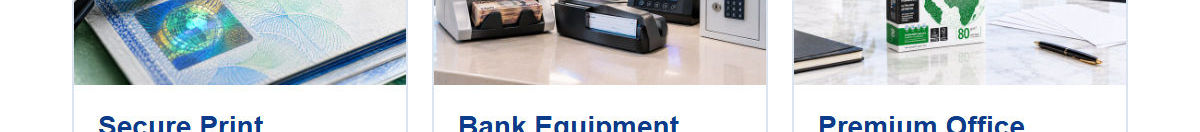
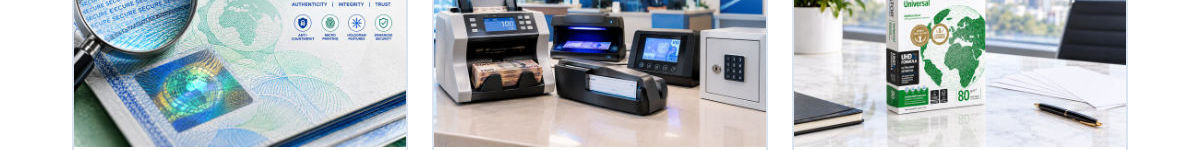
Update email images and copy page
Claude-Session: https://claude.ai/code/session_0174GiyDS398Tino45yyzD7n

diff --git a/index.html b/index.html
@@ -36,7 +36,7 @@
 <div class="wrap"><div id="email">
 <table role="presentation" width="600" align="center" cellpadding="0" cellspacing="0" border="0" bgcolor="#ffffff" style="width:600px; background:#ffffff; border-collapse:collapse;">
       <!-- HEADER (image, 1200x240 shown at 600x120, in strips) -->
-      <tr><td width="600" bgcolor="#0d3b8c" style="width:600px; line-height:0; font-size:0; background:#0d3b8c;"><table role="presentation" width="600" cellpadding="0" cellspacing="0" border="0" style="width:600px; border-collapse:collapse;"><tr><td width="600" style="line-height:0; font-size:0;"><img src="https://hophine.github.io/truvision-email-assets/header-1.jpg" width="600" height="60" alt="Truvision Co. Tanzania Ltd &ndash; A reality that ensures your safety" style="display:block; border:0;"></td></tr><tr><td width="600" style="line-height:0; font-size:0;"><img src="https://hophine.github.io/truvision-email-assets/header-2.jpg" width="600" height="60" alt="" style="display:block; border:0;"></td></tr></table></td></tr>
+      <tr><td width="600" bgcolor="#0d3b8c" style="width:600px; line-height:0; font-size:0; background:#0d3b8c;"><table role="presentation" width="600" cellpadding="0" cellspacing="0" border="0" style="width:600px; border-collapse:collapse;"><tr><td width="600" bgcolor="#093c97" style="line-height:0; font-size:0; background:#093c97;"><img src="https://hophine.github.io/truvision-email-assets/header-1.jpg" width="600" height="47" alt="Truvision Co. Tanzania Ltd &ndash; A reality that ensures your safety" style="display:block; border:0;"></td></tr><tr><td width="600" bgcolor="#0c276c" style="line-height:0; font-size:0; background:#0c276c;"><img src="https://hophine.github.io/truvision-email-assets/header-2.jpg" width="600" height="73" alt="" style="display:block; border:0;"></td></tr></table></td></tr>
       <!-- EDITABLE AREA START: greeting + intro (live text) -->
       <tr><td width="600" style="padding:22px 36px 8px 36px;font-family:Arial,Helvetica,sans-serif;color:#1f2a3d;font-size:15px;line-height:23px;">
       <p style="margin:0 0 14px 0;font-weight:bold;color:#0d3b8c;font-size:16px;">Dear Mr. / Ms. [Name],</p>
@@ -45,17 +45,21 @@
     </td></tr>
       <!-- EDITABLE AREA END -->
       <!-- SERVICE CARDS (image) -->
-      <tr><td width="600" style="width:600px; line-height:0; font-size:0;"><table role="presentation" width="600" cellpadding="0" cellspacing="0" border="0" style="width:600px; border-collapse:collapse;"><tr><td width="600" style="line-height:0; font-size:0;"><img src="https://hophine.github.io/truvision-email-assets/cards-1.jpg" width="600" height="65" alt="What We Do: Secure Print Solutions, Bank Equipment, Premium Office Paper &amp; Stationery" style="display:block; border:0;"></td></tr><tr><td width="600" style="line-height:0; font-size:0;"><img src="https://hophine.github.io/truvision-email-assets/cards-2.jpg" width="600" height="65" alt="" style="display:block; border:0;"></td></tr><tr><td width="600" style="line-height:0; font-size:0;"><img src="https://hophine.github.io/truvision-email-assets/cards-3.jpg" width="600" height="66" alt="" style="display:block; border:0;"></td></tr><tr><td width="600" style="line-height:0; font-size:0;"><img src="https://hophine.github.io/truvision-email-assets/cards-4.jpg" width="600" height="65" alt="" style="display:block; border:0;"></td></tr><tr><td width="600" style="line-height:0; font-size:0;"><img src="https://hophine.github.io/truvision-email-assets/cards-5.jpg" width="600" height="65" alt="" style="display:block; border:0;"></td></tr></table></td></tr>
+      <tr><td width="600" style="width:600px; line-height:0; font-size:0;"><table role="presentation" width="600" cellpadding="0" cellspacing="0" border="0" style="width:600px; border-collapse:collapse;"><tr><td width="600" bgcolor="#ffffff" style="line-height:0; font-size:0; background:#ffffff;"><img src="https://hophine.github.io/truvision-email-assets/cards-1.jpg" width="600" height="19" alt="What We Do: Secure Print Solutions, Bank Equipment, Premium Office Paper &amp; Stationery" style="display:block; border:0;"></td></tr><tr><td width="600" bgcolor="#ffffff" style="line-height:0; font-size:0; background:#ffffff;"><img src="https://hophine.github.io/truvision-email-assets/cards-2.jpg" width="600" height="80" alt="" style="display:block; border:0;"></td></tr><tr><td width="600" bgcolor="#ffffff" style="line-height:0; font-size:0; background:#ffffff;"><img src="https://hophine.github.io/truvision-email-assets/cards-3.jpg" width="600" height="75" alt="" style="display:block; border:0;"></td></tr><tr><td width="600" bgcolor="#ffffff" style="line-height:0; font-size:0; background:#ffffff;"><img src="https://hophine.github.io/truvision-email-assets/cards-4.jpg" width="600" height="72" alt="" style="display:block; border:0;"></td></tr><tr><td width="600" bgcolor="#ffffff" style="line-height:0; font-size:0; background:#ffffff;"><img src="https://hophine.github.io/truvision-email-assets/cards-5.jpg" width="600" height="80" alt="" style="display:block; border:0;"></td></tr></table></td></tr>
       <!-- BUTTONS (image) -->
-      <tr><td width="600" style="width:600px; line-height:0; font-size:0;"><table role="presentation" width="600" cellpadding="0" cellspacing="0" border="0" style="width:600px; border-collapse:collapse;"><tr><td width="35" style="width:35px; line-height:0; font-size:0; background:#ffffff;" bgcolor="#ffffff">&nbsp;</td><td width="260" style="width:260px; line-height:0; font-size:0;"><a href="https://drive.google.com/file/d/1planTHaDmI6MNUXV97K6tc_k8N3gfkBT/view" target="_blank"><img src="https://hophine.github.io/truvision-email-assets/btn-company-profile.png" width="260" height="58" alt="View Company Profile (PDF – 6 Pages)" style="display:block; border:0;"></a></td><td width="10" style="width:10px; line-height:0; font-size:0; background:#ffffff;" bgcolor="#ffffff">&nbsp;</td><td width="260" style="width:260px; line-height:0; font-size:0;"><a href="https://wa.me/255610157031" target="_blank"><img src="https://hophine.github.io/truvision-email-assets/btn-whatsapp.png" width="260" height="58" alt="Contact us on WhatsApp: +255 610 157 031" style="display:block; border:0;"></a></td><td width="35" style="width:35px; line-height:0; font-size:0; background:#ffffff;" bgcolor="#ffffff">&nbsp;</td></tr></table></td></tr>
+      <tr><td width="600" style="width:600px; line-height:0; font-size:0;"><table role="presentation" width="600" cellpadding="0" cellspacing="0" border="0" style="width:600px; border-collapse:collapse;"><tr><td width="35" height="58" bgcolor="#ffffff" style="width:35px; height:58px; line-height:0; font-size:0; background:#ffffff;">&nbsp;</td><td width="260" style="width:260px; line-height:0; font-size:0;"><a href="https://drive.google.com/file/d/1planTHaDmI6MNUXV97K6tc_k8N3gfkBT/view" target="_blank"><img src="https://hophine.github.io/truvision-email-assets/btn-company-profile.png" width="260" height="58" alt="View Company Profile (PDF – 6 Pages)" style="display:block; border:0;"></a></td><td width="10" height="58" bgcolor="#ffffff" style="width:10px; height:58px; line-height:0; font-size:0; background:#ffffff;">&nbsp;</td><td width="260" style="width:260px; line-height:0; font-size:0;"><a href="https://wa.me/255610157031" target="_blank"><img src="https://hophine.github.io/truvision-email-assets/btn-whatsapp.png" width="260" height="58" alt="Contact us on WhatsApp: +255 610 157 031" style="display:block; border:0;"></a></td><td width="35" height="58" bgcolor="#ffffff" style="width:35px; height:58px; line-height:0; font-size:0; background:#ffffff;">&nbsp;</td></tr></table></td></tr>
+      <!-- SPACE (image) -->
+      <tr><td width="600" height="20" bgcolor="#ffffff" style="width:600px; height:20px; line-height:0; font-size:0; background:#ffffff;">&nbsp;</td></tr>
+      <!-- NAVIGATOR WEBSITE BUTTON (image) -->
+      <tr><td width="600" style="width:600px; line-height:0; font-size:0;"><table role="presentation" width="600" cellpadding="0" cellspacing="0" border="0" style="width:600px; border-collapse:collapse;"><tr><td width="169" height="44" bgcolor="#ffffff" style="width:169px; height:44px; line-height:0; font-size:0; background:#ffffff;">&nbsp;</td><td width="262" style="width:262px; line-height:0; font-size:0;"><a href="https://navigator-paper.com/en/range/office/universal" target="_blank"><img src="https://hophine.github.io/truvision-email-assets/btn-navigator.png" width="262" height="44" alt="Navigator Website" style="display:block; border:0;"></a></td><td width="169" height="44" bgcolor="#ffffff" style="width:169px; height:44px; line-height:0; font-size:0; background:#ffffff;">&nbsp;</td></tr></table></td></tr>
       <!-- CLOSING (image) -->
-      <tr><td width="600" style="width:600px; line-height:0; font-size:0;"><table role="presentation" width="600" cellpadding="0" cellspacing="0" border="0" style="width:600px; border-collapse:collapse;"><tr><td width="600" style="line-height:0; font-size:0;"><img src="https://hophine.github.io/truvision-email-assets/closing-1.png" width="600" height="60" alt="We would be pleased to explore opportunities for cooperation with your organization. Best regards, TRUVISION CO. TANZANIA LTD" style="display:block; border:0;"></td></tr><tr><td width="600" style="line-height:0; font-size:0;"><img src="https://hophine.github.io/truvision-email-assets/closing-2.png" width="600" height="61" alt="" style="display:block; border:0;"></td></tr><tr><td width="600" style="line-height:0; font-size:0;"><img src="https://hophine.github.io/truvision-email-assets/closing-3.png" width="600" height="60" alt="" style="display:block; border:0;"></td></tr></table></td></tr>
+      <tr><td width="600" style="width:600px; line-height:0; font-size:0;"><table role="presentation" width="600" cellpadding="0" cellspacing="0" border="0" style="width:600px; border-collapse:collapse;"><tr><td width="600" bgcolor="#ffffff" style="line-height:0; font-size:0; background:#ffffff;"><img src="https://hophine.github.io/truvision-email-assets/closing-1.png" width="600" height="15" alt="Best regards, TRUVISION CO. TANZANIA LTD" style="display:block; border:0;"></td></tr><tr><td width="600" bgcolor="#ffffff" style="line-height:0; font-size:0; background:#ffffff;"><img src="https://hophine.github.io/truvision-email-assets/closing-2.png" width="600" height="80" alt="" style="display:block; border:0;"></td></tr><tr><td width="600" bgcolor="#ffffff" style="line-height:0; font-size:0; background:#ffffff;"><img src="https://hophine.github.io/truvision-email-assets/closing-3.png" width="600" height="80" alt="" style="display:block; border:0;"></td></tr></table></td></tr>
       <!-- CONTACT ROW (image) -->
-      <tr><td width="600" style="width:600px; line-height:0; font-size:0;"><table role="presentation" width="600" cellpadding="0" cellspacing="0" border="0" style="width:600px; border-collapse:collapse;"><tr><td width="36" style="width:36px; line-height:0; font-size:0; background:#ffffff;" bgcolor="#ffffff">&nbsp;</td><td width="116" style="width:116px; line-height:0; font-size:0;"><a href="tel:+255610157031"><img src="https://hophine.github.io/truvision-email-assets/contact-phone.png" width="116" height="54" alt="Phone: +255 610 157 031" style="display:block; border:0;"></a></td><td width="14" style="width:14px; line-height:0; font-size:0; background:#ffffff;" bgcolor="#ffffff">&nbsp;</td><td width="174" style="width:174px; line-height:0; font-size:0;" valign="top"><table role="presentation" width="174" cellpadding="0" cellspacing="0" border="0" style="width:174px; border-collapse:collapse;"><tr><td width="174" style="line-height:0; font-size:0;"><a href="mailto:marketing@truvision-tz.com"><img src="https://hophine.github.io/truvision-email-assets/contact-email.png" width="174" height="18" alt="Email: marketing@truvision-tz.com" style="display:block; border:0;"></a></td></tr><tr><td width="174" style="line-height:0; font-size:0;"><a href="mailto:sales@truvision-tz.com"><img src="https://hophine.github.io/truvision-email-assets/contact-email2.png" width="174" height="18" alt="Email: sales@truvision-tz.com" style="display:block; border:0;"></a></td></tr><tr><td width="174" style="line-height:0; font-size:0;"><a href="mailto:officepaper@truvision-tz.com"><img src="https://hophine.github.io/truvision-email-assets/contact-email3.png" width="174" height="18" alt="Email: officepaper@truvision-tz.com" style="display:block; border:0;"></a></td></tr></table></td><td width="260" style="width:260px; line-height:0; font-size:0;"><img src="https://hophine.github.io/truvision-email-assets/contact-end.png" width="260" height="54" alt="Address: House No. 35, 15 Viongozi Street, Mikocheni B, Dar es Salaam, P.O. Box 6464 DSM" style="display:block; border:0;"></td></tr></table></td></tr>
-      <!-- FOOTER WAVE (image) -->
-      <tr><td width="600" style="width:600px; line-height:0; font-size:0;"><table role="presentation" width="600" cellpadding="0" cellspacing="0" border="0" style="width:600px; border-collapse:collapse;"><tr><td width="600" style="line-height:0; font-size:0;"><img src="https://hophine.github.io/truvision-email-assets/footer-wave-1.png" width="600" height="45" alt="" style="display:block; border:0;"></td></tr><tr><td width="600" style="line-height:0; font-size:0;"><img src="https://hophine.github.io/truvision-email-assets/footer-wave-2.png" width="600" height="45" alt="" style="display:block; border:0;"></td></tr></table></td></tr>
+      <tr><td width="600" style="width:600px; line-height:0; font-size:0;"><table role="presentation" width="600" cellpadding="0" cellspacing="0" border="0" style="width:600px; border-collapse:collapse;"><tr><td width="36" height="54" bgcolor="#ffffff" style="width:36px; height:54px; line-height:0; font-size:0; background:#ffffff;">&nbsp;</td><td width="116" style="width:116px; line-height:0; font-size:0;"><a href="tel:+255610157031"><img src="https://hophine.github.io/truvision-email-assets/contact-phone.png" width="116" height="54" alt="Phone: +255 610 157 031" style="display:block; border:0;"></a></td><td width="14" height="54" bgcolor="#ffffff" style="width:14px; height:54px; line-height:0; font-size:0; background:#ffffff;">&nbsp;</td><td width="174" style="width:174px; line-height:0; font-size:0;" valign="top"><table role="presentation" width="174" cellpadding="0" cellspacing="0" border="0" style="width:174px; border-collapse:collapse;"><tr><td width="174" style="line-height:0; font-size:0;"><a href="mailto:marketing@truvision-tz.com"><img src="https://hophine.github.io/truvision-email-assets/contact-email.png" width="174" height="18" alt="Email: marketing@truvision-tz.com" style="display:block; border:0;"></a></td></tr><tr><td width="174" style="line-height:0; font-size:0;"><a href="mailto:sales@truvision-tz.com"><img src="https://hophine.github.io/truvision-email-assets/contact-email2.png" width="174" height="18" alt="Email: sales@truvision-tz.com" style="display:block; border:0;"></a></td></tr><tr><td width="174" style="line-height:0; font-size:0;"><a href="mailto:officepaper@truvision-tz.com"><img src="https://hophine.github.io/truvision-email-assets/contact-email3.png" width="174" height="18" alt="Email: officepaper@truvision-tz.com" style="display:block; border:0;"></a></td></tr></table></td><td width="260" style="width:260px; line-height:0; font-size:0;"><img src="https://hophine.github.io/truvision-email-assets/contact-end.png" width="260" height="54" alt="Address: House No. 35, 15 Viongozi Street, Mikocheni B, Dar es Salaam, P.O. Box 6464 DSM" style="display:block; border:0;"></td></tr></table></td></tr>
+      <!-- SPACE (image) -->
+      <tr><td width="600" height="30" bgcolor="#ffffff" style="width:600px; height:30px; line-height:0; font-size:0; background:#ffffff;">&nbsp;</td></tr>
       <!-- FOOTER BAR (image) -->
-      <tr><td width="600" style="width:600px; line-height:0; font-size:0;"><table role="presentation" width="600" cellpadding="0" cellspacing="0" border="0" style="width:600px; border-collapse:collapse;"><tr><td width="16" style="width:16px; line-height:0; font-size:0; background:#0d3b8c;" bgcolor="#0d3b8c">&nbsp;</td><td width="38" height="76" align="center" valign="middle" bgcolor="#0d3b8c" style="width:38px; height:76px; background:#0d3b8c; line-height:0; font-size:0;"><a href="https://www.facebook.com/share/1PY9NDpRXV/" target="_blank"><img src="https://hophine.github.io/truvision-email-assets/social-facebook.png" width="30" height="30" alt="Facebook" style="display:block; border:0;"></a></td><td width="38" height="76" align="center" valign="middle" bgcolor="#0d3b8c" style="width:38px; height:76px; background:#0d3b8c; line-height:0; font-size:0;"><a href="https://www.linkedin.com/in/navigator-office-paper-97a4bb413/" target="_blank"><img src="https://hophine.github.io/truvision-email-assets/social-linkedin.png" width="30" height="30" alt="LinkedIn" style="display:block; border:0;"></a></td><td width="38" height="76" align="center" valign="middle" bgcolor="#0d3b8c" style="width:38px; height:76px; background:#0d3b8c; line-height:0; font-size:0;"><a href="https://www.instagram.com/navigator.office.paper.255_tz" target="_blank"><img src="https://hophine.github.io/truvision-email-assets/social-instagram.png" width="30" height="30" alt="Instagram" style="display:block; border:0;"></a></td><td width="38" height="76" align="center" valign="middle" bgcolor="#0d3b8c" style="width:38px; height:76px; background:#0d3b8c; line-height:0; font-size:0;"><a href="https://www.tiktok.com/@navigator.paper.tz" target="_blank"><img src="https://hophine.github.io/truvision-email-assets/social-tiktok.png" width="30" height="30" alt="TikTok" style="display:block; border:0;"></a></td><td width="432" style="width:432px; line-height:0; font-size:0;"><img src="https://hophine.github.io/truvision-email-assets/footer-bar-end.png" width="432" height="76" alt="TRUVISION CO. TANZANIA LTD – People. Solutions. A Safer Tomorrow." style="display:block; border:0;"></td></tr></table></td></tr>
+      <tr><td width="600" style="width:600px; line-height:0; font-size:0;"><table role="presentation" width="600" cellpadding="0" cellspacing="0" border="0" style="width:600px; border-collapse:collapse;"><tr><td width="16" height="76" bgcolor="#0d3b8c" style="width:16px; height:76px; line-height:0; font-size:0; background:#0d3b8c;">&nbsp;</td><td width="38" height="76" align="center" valign="middle" bgcolor="#0d3b8c" style="width:38px; height:76px; background:#0d3b8c; line-height:0; font-size:0;"><a href="https://www.facebook.com/share/1PY9NDpRXV/" target="_blank"><img src="https://hophine.github.io/truvision-email-assets/social-facebook.png" width="30" height="30" alt="Facebook" style="display:block; border:0;"></a></td><td width="38" height="76" align="center" valign="middle" bgcolor="#0d3b8c" style="width:38px; height:76px; background:#0d3b8c; line-height:0; font-size:0;"><a href="https://www.linkedin.com/in/navigator-office-paper-97a4bb413/" target="_blank"><img src="https://hophine.github.io/truvision-email-assets/social-linkedin.png" width="30" height="30" alt="LinkedIn" style="display:block; border:0;"></a></td><td width="38" height="76" align="center" valign="middle" bgcolor="#0d3b8c" style="width:38px; height:76px; background:#0d3b8c; line-height:0; font-size:0;"><a href="https://www.instagram.com/navigator.office.paper.255_tz" target="_blank"><img src="https://hophine.github.io/truvision-email-assets/social-instagram.png" width="30" height="30" alt="Instagram" style="display:block; border:0;"></a></td><td width="38" height="76" align="center" valign="middle" bgcolor="#0d3b8c" style="width:38px; height:76px; background:#0d3b8c; line-height:0; font-size:0;"><a href="https://www.tiktok.com/@navigator.paper.tz" target="_blank"><img src="https://hophine.github.io/truvision-email-assets/social-tiktok.png" width="30" height="30" alt="TikTok" style="display:block; border:0;"></a></td><td width="432" style="width:432px; line-height:0; font-size:0;"><img src="https://hophine.github.io/truvision-email-assets/footer-bar-end.png" width="432" height="76" alt="TRUVISION CO. TANZANIA LTD – People. Solutions. A Safer Tomorrow." style="display:block; border:0;"></td></tr></table></td></tr>
   </table>
 </div></div>
 <script>
